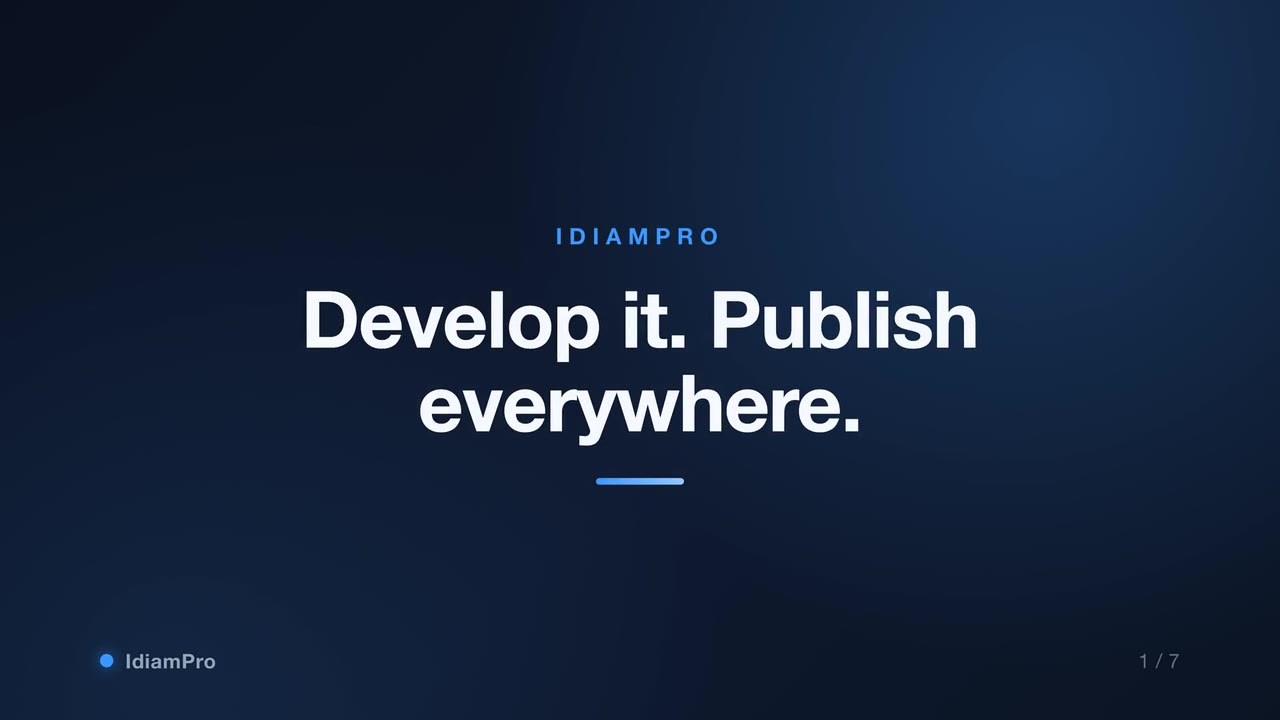
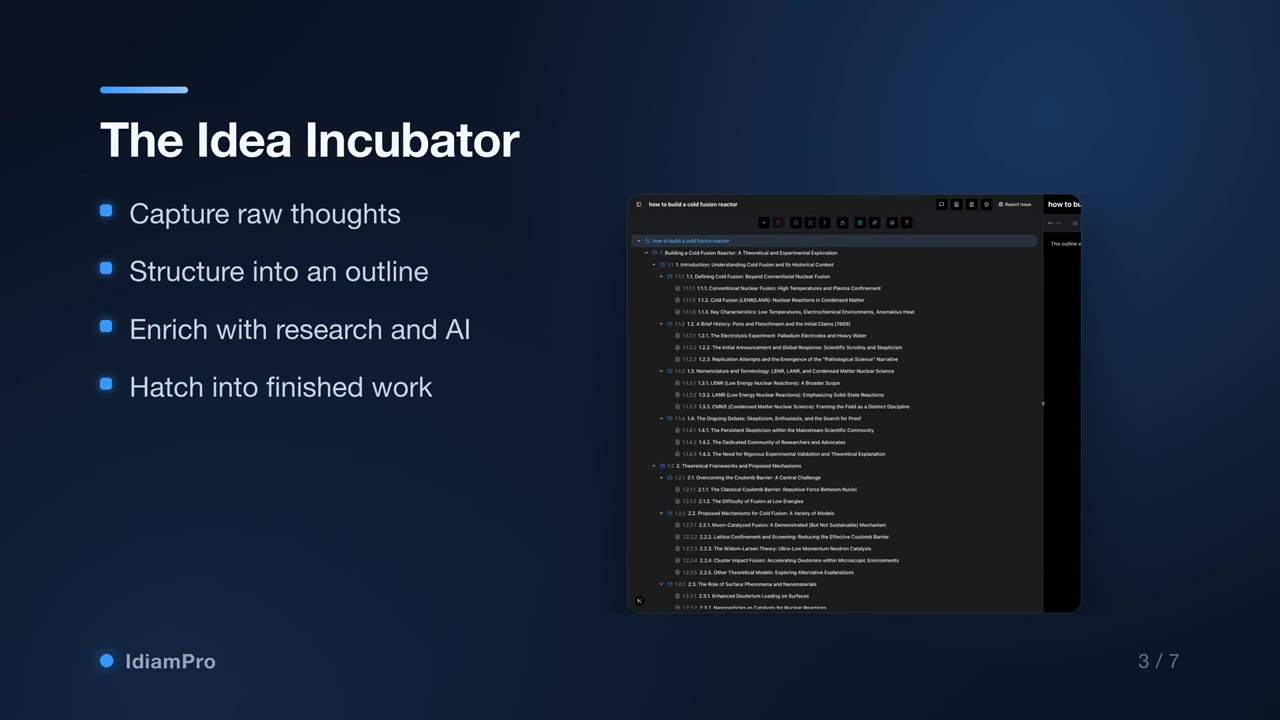
Homepage intro video: weave in real product screenshots (prove the tool is real)
Rebuilt the homepage intro video so it shows the ACTUAL product throughout,
using IdiamPro's own Generate Video pipeline. Each of the 7 slides now carries a
real, dark-mode, full-screen screenshot of the app in use on a deeply-structured
real outline (a cold-fusion research book, 96 nodes, 4 levels): the two-pane
editor + deep tree, Ask Your Outlines, Research & Import (merge many sources),
and the "what you can make" outputs panel — framed on the branded slides.

The premium "onyx" narration was REUSED verbatim from the prior render (per-slide
audio recovered from the last render's segments), so this rebuild cost zero new
text-to-speech. Same 7-slide script, same ~69s length, same "Produced by
IdiamPro" caption, web-optimized (720p H.264 + AAC, +faststart, ~1.8MB).

Pipeline enhancement (also improves the feature): a slide can now pin a local
image as its visual (imageFile) and reuse a pre-supplied narration track
(audioFile, skipping TTS). Screenshots are framed like an app window in the
split/cover layouts. Verified: audible narration, real UI visible in extracted
frames, homepage renders the video + caption + playable, full build passes.

Changed region(s): [[0.0625, 0.2444, 0.8438, 0.8556], [0.0625, 0.1222, 0.4062, 0.2444], [0.0625, 0.275, 0.3125, 0.3361]]

diff --git a/electron/video-generator.js b/electron/video-generator.js
@@ -467,27 +467,34 @@ async function fetchSlideClip(query, workDir, ctx) {
 // (IdiamPro wordmark + slide number), and AUTO-FIT: an inline script shrinks the
 // content until it fits the safe area, so dense real-outline text never overflows.
 // Brand accent is IdiamPro's iOS blue (bright variant for dark-bg readability).
-function slideHtml(slide, index, total, style, mindmapSvg, photoUrl, videoClip) {
+function slideHtml(slide, index, total, style, mindmapSvg, photoUrl, videoClip, screenshotUrl) {
   const isCover = slide && slide.kind === 'cover';
   const title = escapeHtml(slide.title || '');
   const bullets = (Array.isArray(slide.bullets) ? slide.bullets : []).filter(Boolean);
   const num = `${(index || 0) + 1} / ${total || 1}`;
+  // A slide can carry a real PRODUCT SCREENSHOT (a local image) as its hero
+  // visual. It is framed like an app window on the branded slide — NOT full-bleed
+  // behind the text — so the actual UI stays crisp and legible. On a content
+  // slide it sits in the visual card of the split layout (title + bullets on the
+  // left, the screenshot on the right); on the cover it sits framed below the
+  // title. Screenshots win over mind maps / photos / clips when present.
+  const hasScreenshot = typeof screenshotUrl === 'string' && screenshotUrl.length > 4;
   // A section slide can carry a rendered mind-map SVG. When present (and this is
   // not the cover), we compose a split layout: text on the left, the mind map as
   // the hero visual on the right. If it's absent (leaf slide, or the diagram
   // failed to render), we fall back to the original text-only layout.
-  const hasMindmap = !isCover && typeof mindmapSvg === 'string' && mindmapSvg.length > 40;
+  const hasMindmap = !isCover && !hasScreenshot && typeof mindmapSvg === 'string' && mindmapSvg.length > 40;
   // A slide can carry a stock photo (Phase B). Mind maps win over photos on the
   // same slide (they never both apply in Auto mode). When a photo is present we
   // compose a cinematic full-bleed layout: the photo fills the frame under a
   // strong dark scrim, with the text on top — legible over ANY image. If the
   // fetch failed, photoUrl is empty and we fall back to mind-map/text layouts.
-  const hasPhoto = !hasMindmap && typeof photoUrl === 'string' && photoUrl.length > 4;
+  const hasPhoto = !hasMindmap && !hasScreenshot && typeof photoUrl === 'string' && photoUrl.length > 4;
   // A slide can instead sit over a MOVING public-domain clip (Phase C). The clip
   // itself is composited by ffmpeg BEHIND this PNG; here we render the text +
   // scrim + footer on a TRANSPARENT page so the clip shows through. It reuses the
   // photo layout's scrim + light-text treatment for legibility over any footage.
-  const hasVideoBg = !hasMindmap && !hasPhoto && videoClip === true;
+  const hasVideoBg = !hasMindmap && !hasPhoto && !hasScreenshot && videoClip === true;
   // Text that sits over imagery (photo OR clip) gets the light, shadowed
   // treatment via the .on-photo class so it stays legible on any background.
   const overImagery = hasPhoto || hasVideoBg;
@@ -610,14 +617,35 @@ function slideHtml(slide, index, total, style, mindmapSvg, photoUrl, videoClip) 
     const eyebrow = brandLabel
       ? `<div class="eyebrow">${escapeHtml(brandLabel.toUpperCase())}</div>`
       : '';
+    const coverShot = hasScreenshot
+      ? `<div class="cover-shot"><img class="shot" src="${screenshotUrl}" alt="" /></div>`
+      : '';
     body = `
       <div class="${stageClass}">
         ${photoLayer}
-        <div id="fit" class="cover">
+        <div id="fit" class="cover${hasScreenshot ? ' cover-withshot' : ''}">
           ${eyebrow}
           <h1>${title}</h1>
           <div class="accent-rule cover-rule"></div>
-          ${agenda}
+          ${coverShot || agenda}
+        </div>
+        ${footerHtml}
+      </div>`;
+  } else if (hasScreenshot) {
+    // Split layout with a real product screenshot as the hero visual: title +
+    // bullets on the left, the framed app window on the right.
+    const bulletsBlock = bullets.length ? `<ul>${bulletHtml}</ul>` : '';
+    body = `
+      <div class="stage">
+        <div id="fit" class="split">
+          <div class="head">
+            <div class="accent-rule"></div>
+            <h1>${title}</h1>
+          </div>
+          <div class="cols">
+            <div class="textcol">${bulletsBlock}</div>
+            <div class="mapcol shotcol"><img class="shot" src="${screenshotUrl}" alt="" /></div>
+          </div>
         </div>
         ${footerHtml}
       </div>`;
@@ -685,6 +713,18 @@ function slideHtml(slide, index, total, style, mindmapSvg, photoUrl, videoClip) 
       background: ${cardBg}; border: 1px solid ${cardBorder}; border-radius: 26px; padding: 36px; }
     .split .mm { width: 100%; height: 100%; display: flex; align-items: center; justify-content: center; }
     .split .mm svg { width: 100%; height: auto; max-height: 100%; display: block; margin: auto; }
+    /* --- Product screenshot (framed app window) --- */
+    .split .shotcol { padding: 0; background: transparent; border: none; overflow: hidden; }
+    .shot { max-width: 100%; max-height: 100%; width: auto; height: auto; object-fit: contain;
+      border-radius: 20px; border: 1px solid ${cardBorder};
+      box-shadow: 0 34px 90px rgba(2,6,16,0.55), 0 0 0 1px rgba(255,255,255,0.03) inset; display: block; }
+    .cover-withshot { justify-content: center; }
+    .cover-withshot h1 { font-size: 78px; }
+    .cover-withshot .eyebrow { margin-bottom: 26px; }
+    .cover-withshot .cover-rule { margin: 34px auto 0; }
+    .cover .cover-shot { margin-top: 62px; width: 100%; display: flex; justify-content: center;
+      min-height: 0; flex: 0 1 auto; align-items: center; overflow: hidden; }
+    .cover .cover-shot .shot { max-height: 500px; max-width: 76%; }
     /* --- Cover layout --- */
     .cover { position: absolute; left: 150px; right: 150px; top: 150px; bottom: 170px;
       display: flex; flex-direction: column; justify-content: center; align-items: center;
@@ -860,6 +900,7 @@ async function renderMermaidSvg(mermaidDef, theme, workDir, tag) {
 async function renderSlidePng(slide, outPath, index, total, style, mindmapSvg, photoUrl, renderOpts) {
   const opts = renderOpts || {};
   const videoClip = opts.videoClip === true;
+  const screenshotUrl = typeof opts.screenshotUrl === 'string' ? opts.screenshotUrl : '';
   // For a video-clip slide we capture the text/scrim on a TRANSPARENT page so the
   // clip (composited behind by ffmpeg) shows through. An offscreen window renders
   // transparent when created with transparent:true + a fully-transparent bg color,
@@ -891,7 +932,7 @@ async function renderSlidePng(slide, outPath, index, total, style, mindmapSvg, p
   try {
     win.webContents.on('paint', onPaint);
     win.webContents.setFrameRate(30);
-    const html = slideHtml(slide, index, total, style, mindmapSvg, photoUrl, videoClip);
+    const html = slideHtml(slide, index, total, style, mindmapSvg, photoUrl, videoClip, screenshotUrl);
     fs.writeFileSync(htmlPath, html);
     await win.loadURL(pathToFileURL(htmlPath).href);
     // Let webfonts + layout settle so the title/bullets are actually drawn before
@@ -1285,6 +1326,19 @@ async function generateSlideshowVideo(opts) {
       const isCover = slide && slide.kind === 'cover';
       const isSection = !!(slide && slide.mindmapMermaid);
 
+      // A slide may pin a REAL product screenshot (a local image file) as its
+      // hero visual. When present it wins over every generated/fetched visual
+      // (mind map / photo / clip are all skipped) and is framed like an app
+      // window on the branded slide. A missing/unreadable file falls back to the
+      // normal visual pipeline, so it can never break the render.
+      let screenshotUrl = null;
+      if (slide && typeof slide.imageFile === 'string' && slide.imageFile.trim()) {
+        try {
+          const p = slide.imageFile.trim();
+          if (fs.existsSync(p)) screenshotUrl = pathToFileURL(p).href;
+        } catch { /* fall back to the normal visual pipeline */ }
+      }
+
       // Combinable per-slide rules:
       //   • section slide (has children) → a mind map, if Mind maps is on
       //   • detail/leaf slide (or a section with Mind maps off) → a video clip if
@@ -1295,7 +1349,9 @@ async function generateSlideshowVideo(opts) {
       let wantMindmap = false;
       let wantPhoto = false;
       let wantClip = false;
-      if (!isCover) {
+      if (screenshotUrl) {
+        // A pinned screenshot is the visual — skip all generated/fetched visuals.
+      } else if (!isCover) {
         if (isSection && vis.mindmap) {
           wantMindmap = true;
         } else {
@@ -1340,7 +1396,9 @@ async function generateSlideshowVideo(opts) {
       const isVideoSlide = !!clipPath;
       await renderSlidePng(
         slide, pngPath, i, slides.length, style, mindmapSvg, photoUrl,
-        isVideoSlide ? { videoClip: true, transparent: true } : undefined,
+        isVideoSlide
+          ? { videoClip: true, transparent: true }
+          : (screenshotUrl ? { screenshotUrl } : undefined),
       );
 
       // 2. Narration audio. Fallback chain so a video is NEVER silent:
@@ -1350,7 +1408,19 @@ async function generateSlideshowVideo(opts) {
       const narration = (slide.narration || slide.title || '').trim();
       let gotAudio = false;
       let audioFile = audioPath;
-      if (narration && (apiKey || process.platform === 'darwin')) {
+      // A slide may supply a PRE-EXISTING narration audio file (e.g. reusing
+      // already-synthesized/paid TTS). When present and readable, we use it
+      // verbatim and skip TTS entirely — no new synthesis, no cost.
+      if (!gotAudio && slide && typeof slide.audioFile === 'string' && slide.audioFile.trim()) {
+        try {
+          const ap = slide.audioFile.trim();
+          if (fs.existsSync(ap) && fs.statSync(ap).size > 1000) {
+            audioFile = ap;
+            gotAudio = true;
+          }
+        } catch { /* fall through to synthesis */ }
+      }
+      if (!gotAudio && narration && (apiKey || process.platform === 'darwin')) {
         // Same step (bar doesn't jump back) — just a friendlier label while the
         // voiceover work runs, which is the slow part of a slide.
         report({
@@ -1358,7 +1428,7 @@ async function generateSlideshowVideo(opts) {
           completed: i, totalSteps, label: `Adding voiceover (${i + 1} of ${slides.length})`,
         });
       }
-      if (apiKey && narration) {
+      if (!gotAudio && apiKey && narration) {
         try {
           await synthesizeTts(narration, voice, apiKey, audioPath);
           usedTts = true;